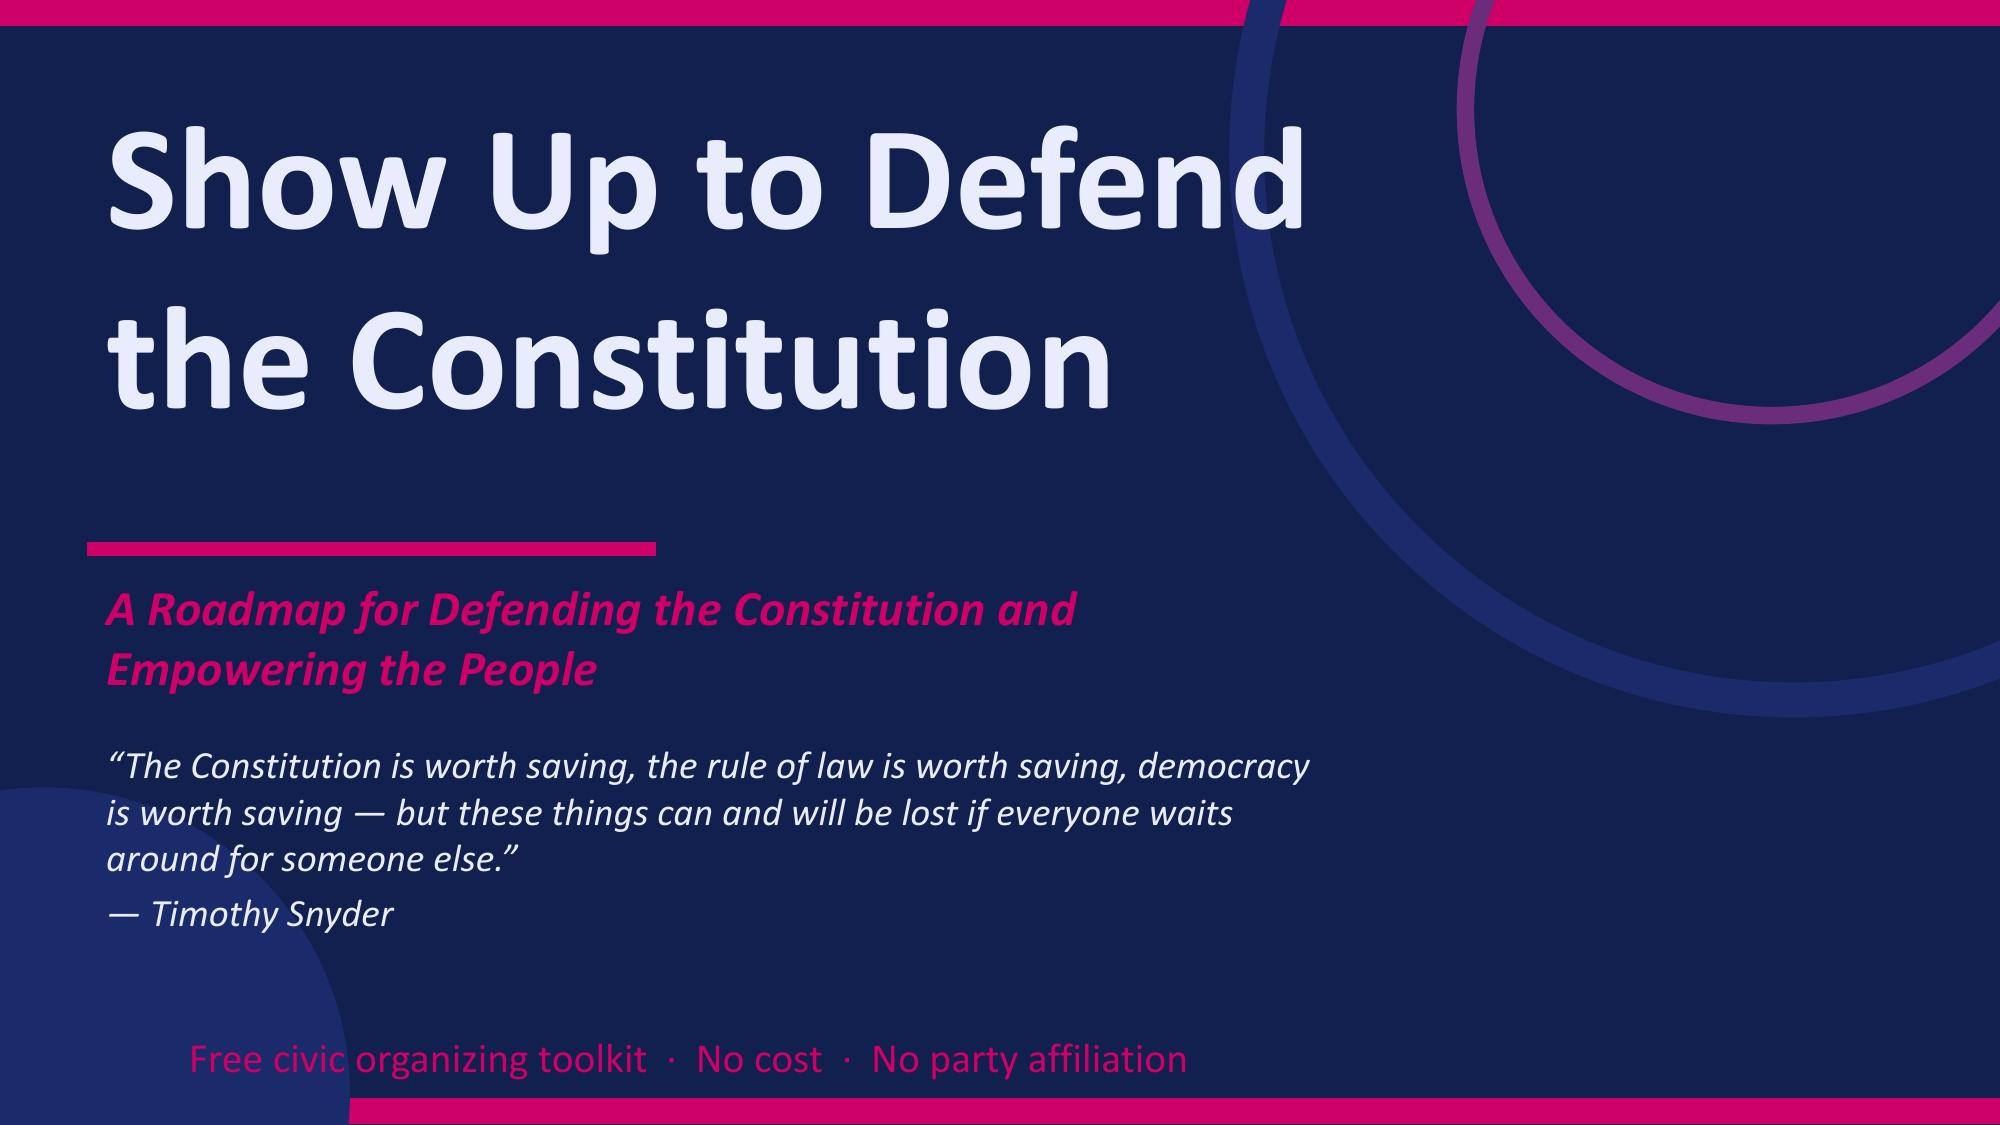
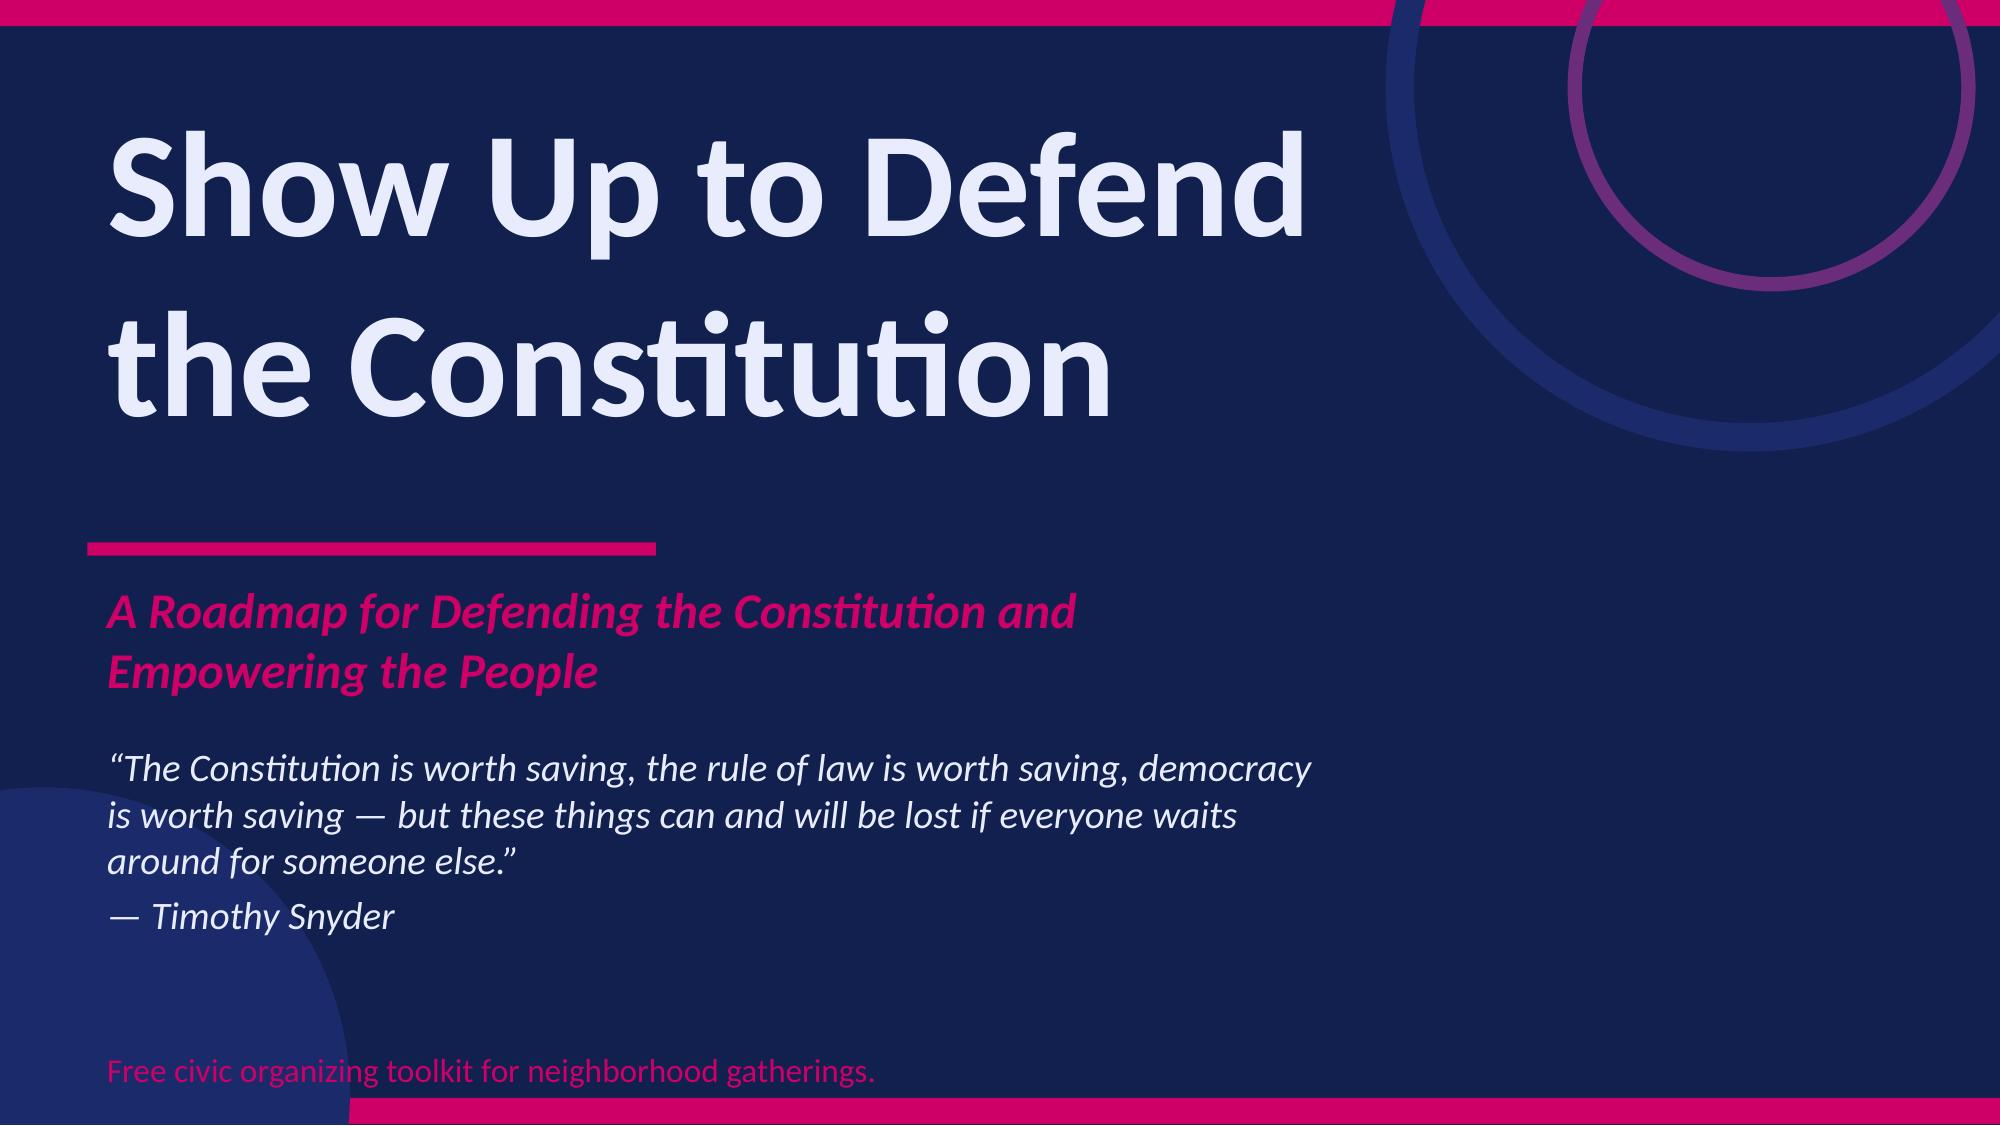
Add files via upload

diff --git a/index.html b/index.html
@@ -279,7 +279,7 @@
     <div class="circle-bl"></div>
     <h1>Show Up to Defend the Constitution</h1>
     <div class="header-rule"></div>
-    <p>Free civic organizing toolkit. No cost. No party affiliation.</p>
+    <p>Free civic organizing toolkit for neighborhood gatherings.</p>
   </header>
 
   <div style="background: var(--magenta); padding: 0.85rem 2rem; text-align: center;">
